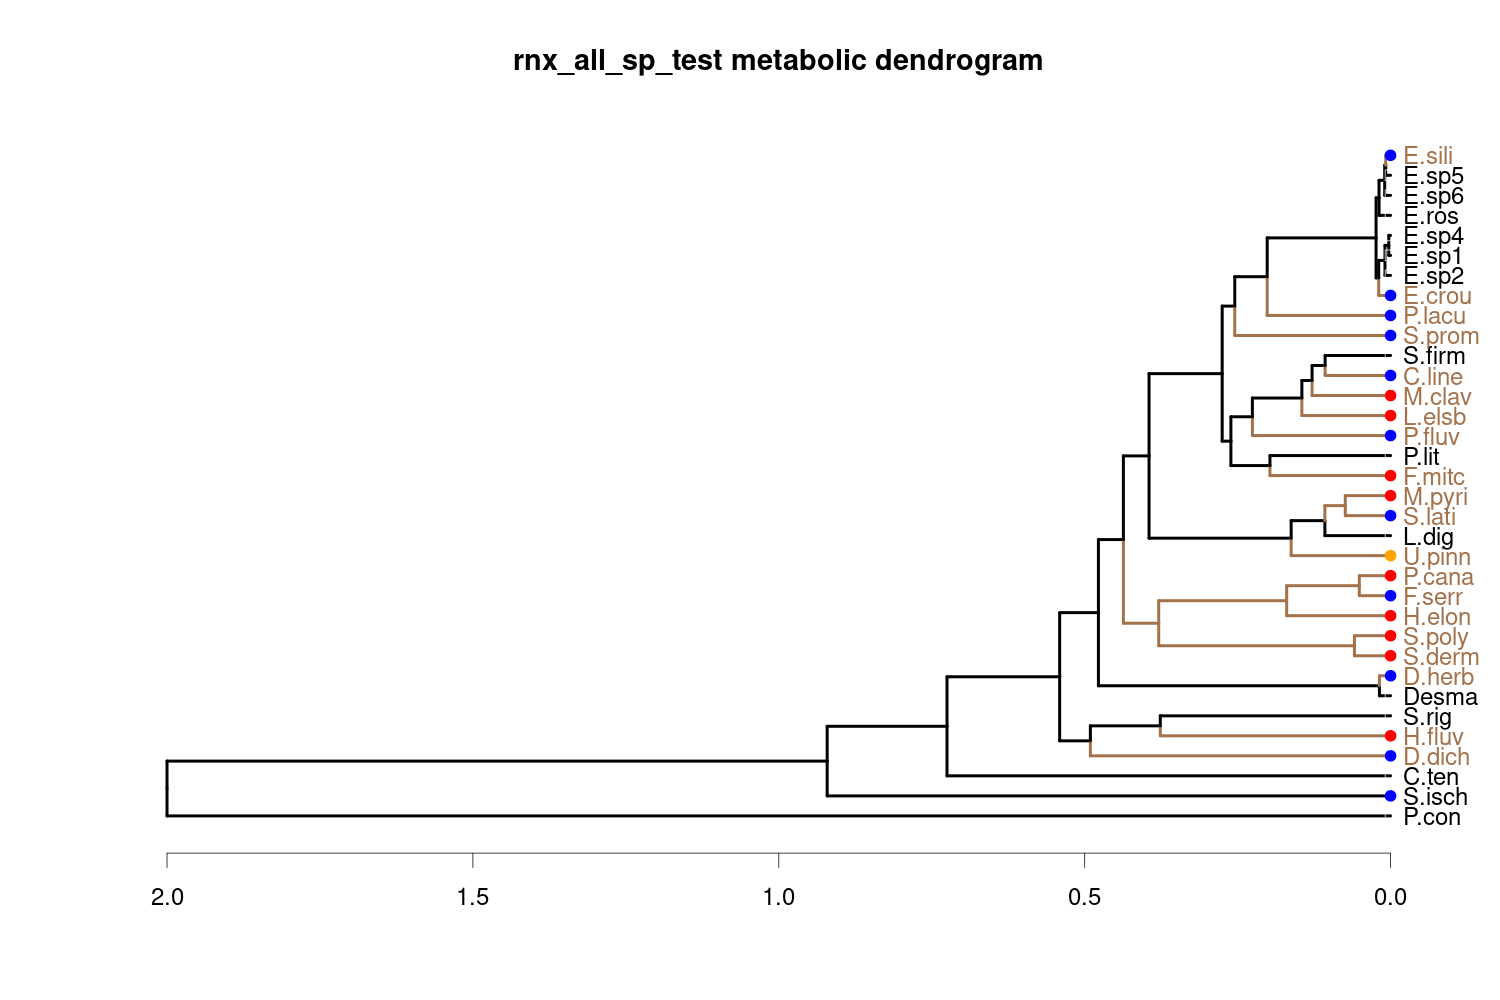
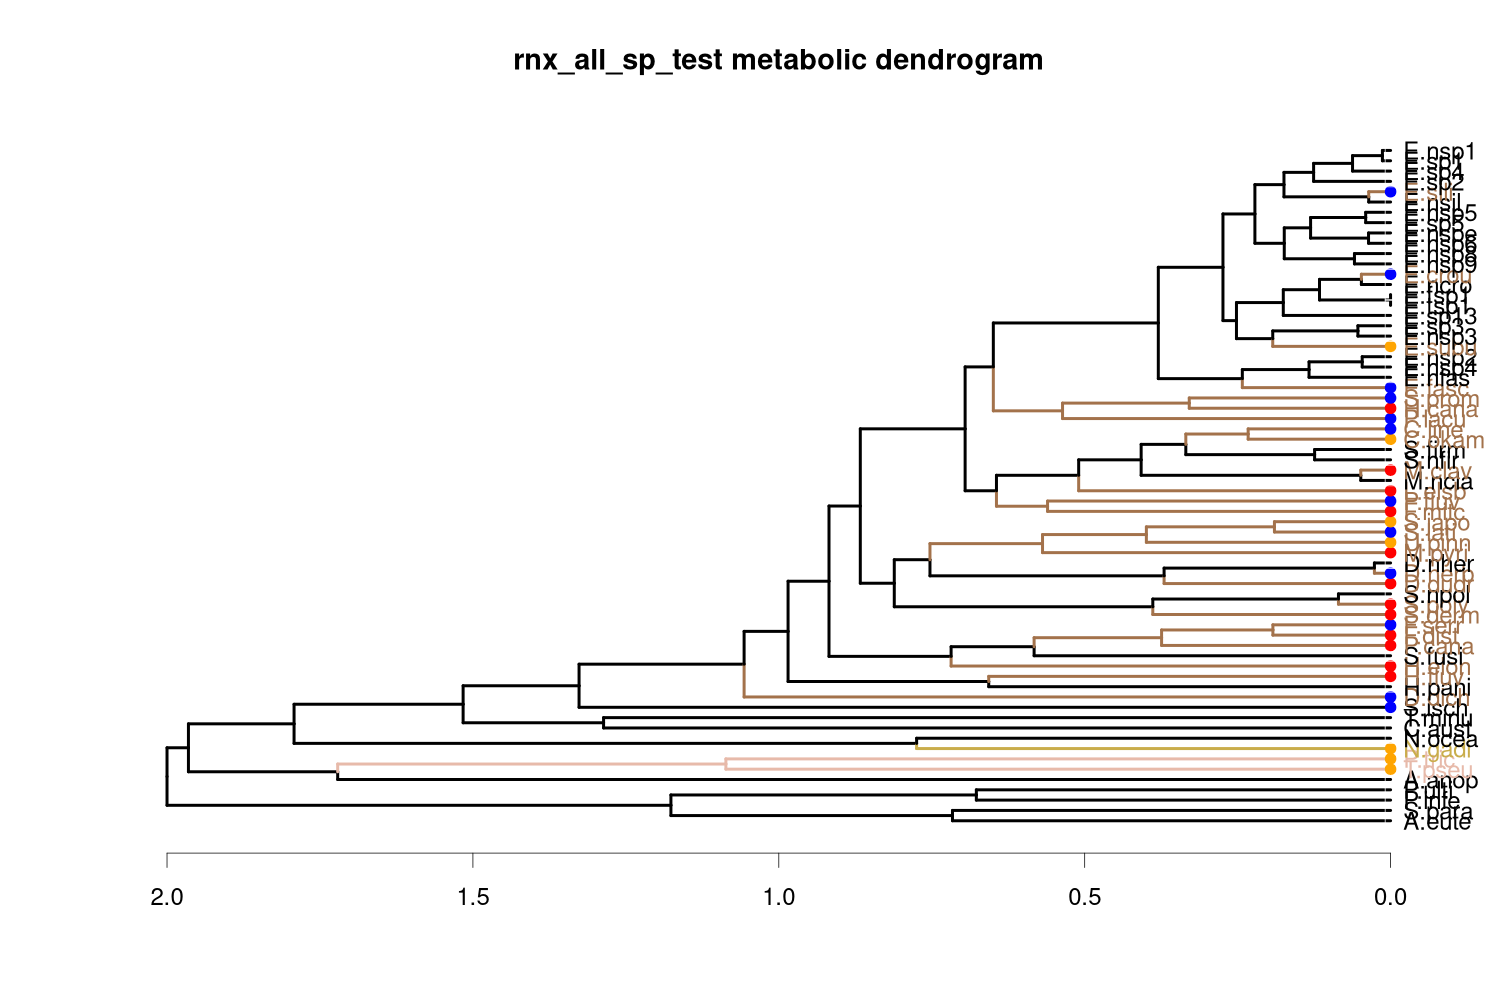
change ref tree

Changed region(s): [[0.092, 0.124, 1.0, 0.837], [0.5827, 0.403, 0.644, 0.434]]

diff --git a/analysis_runs/dendrograms.py b/analysis_runs/dendrograms.py
@@ -127,6 +127,7 @@ class Dendrogram:
         return dend
 
     @staticmethod
+    # !!! If the abbreviatio gives duplicate names, untangle and tanglegram will give error.
     def __set_abbr_labels(dend):
         abbr_label = []
         for l in rpy2.robjects.r['labels'](dend):
@@ -194,7 +195,7 @@ class Dendrogram:
         col_lines = dendextend.labels_col(d1[0])
 
         out_file = os.path.join(self.out_dir, f"{self.name}_tanglegram.png")
-        grdevices.png(file=out_file, width=1500, height=1000, pointsize=24)
+        grdevices.png(file=out_file, width=1700, height=1000, pointsize=24)
         title_right = f"{self.name} Metabolic Dendrogram"
         d1 = dendextend.untangle(d1)
         dendextend.tanglegram(d1, lwd=2, color_lines=col_lines, main_left="Original phylogeny",

diff --git a/personal_analysis.py b/personal_analysis.py
@@ -8,7 +8,8 @@ PATH_RUNS = 'data/runs/'
 # PATH_RUNS = '/home/phamongi/Documents/Runs/'
 # DATA_LELSB_LOSSES = "data/Lelsb_losses.ods"
 # ORG_TSV = "data/species_group.tsv"
-phylo_f = "data/Phaeoexplorer_MLtree_rooted.nex"
+phylo_f1 = "data/Phaeoexplorer_MLtree_rooted.nex"
+phylo_f2 = "data/SpeciesTree_rooted.nex"
 
 # ### Select species ##############################################################################
 
@@ -70,4 +71,4 @@ REACTIONS = A.get_reactions_inst(runs=[R04])
 # PATHWAYS[R04].generate_pw_dendrogram(0.8, False, "test", phylo_f, 10)
 # print(GENES)
 # print(METABOLITES)
-REACTIONS[R04].generate_rnx_dendrogram(A, "all_sp_test", phylo_f, n_boot=100)
+REACTIONS[R04].generate_rnx_dendrogram(A, "all_sp_test", phylo_f2, n_boot=10)
